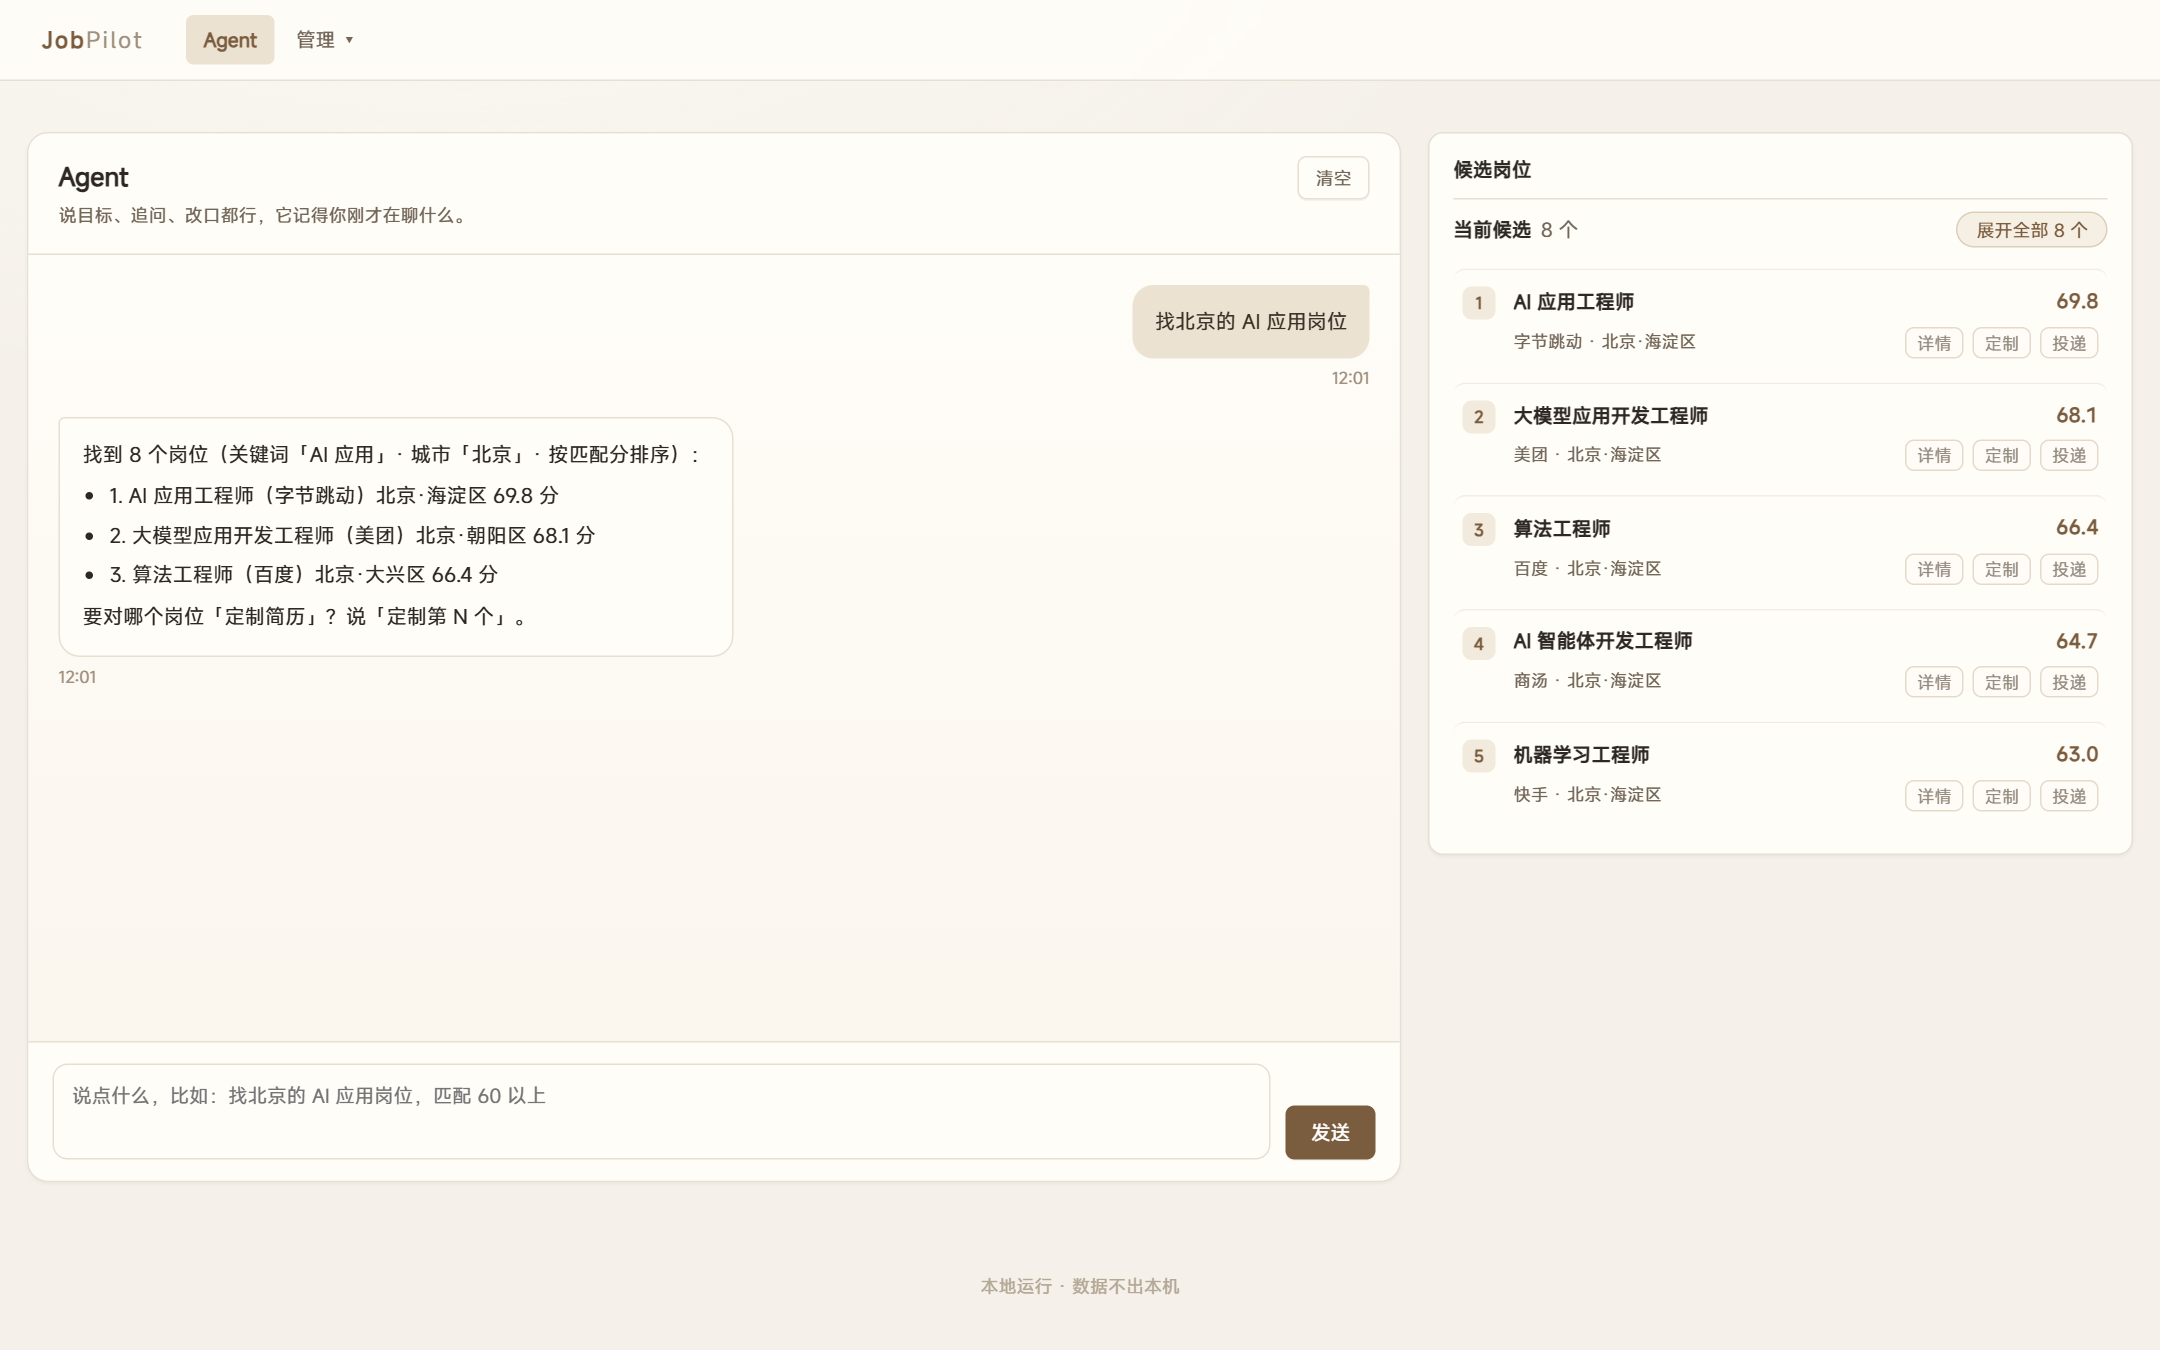
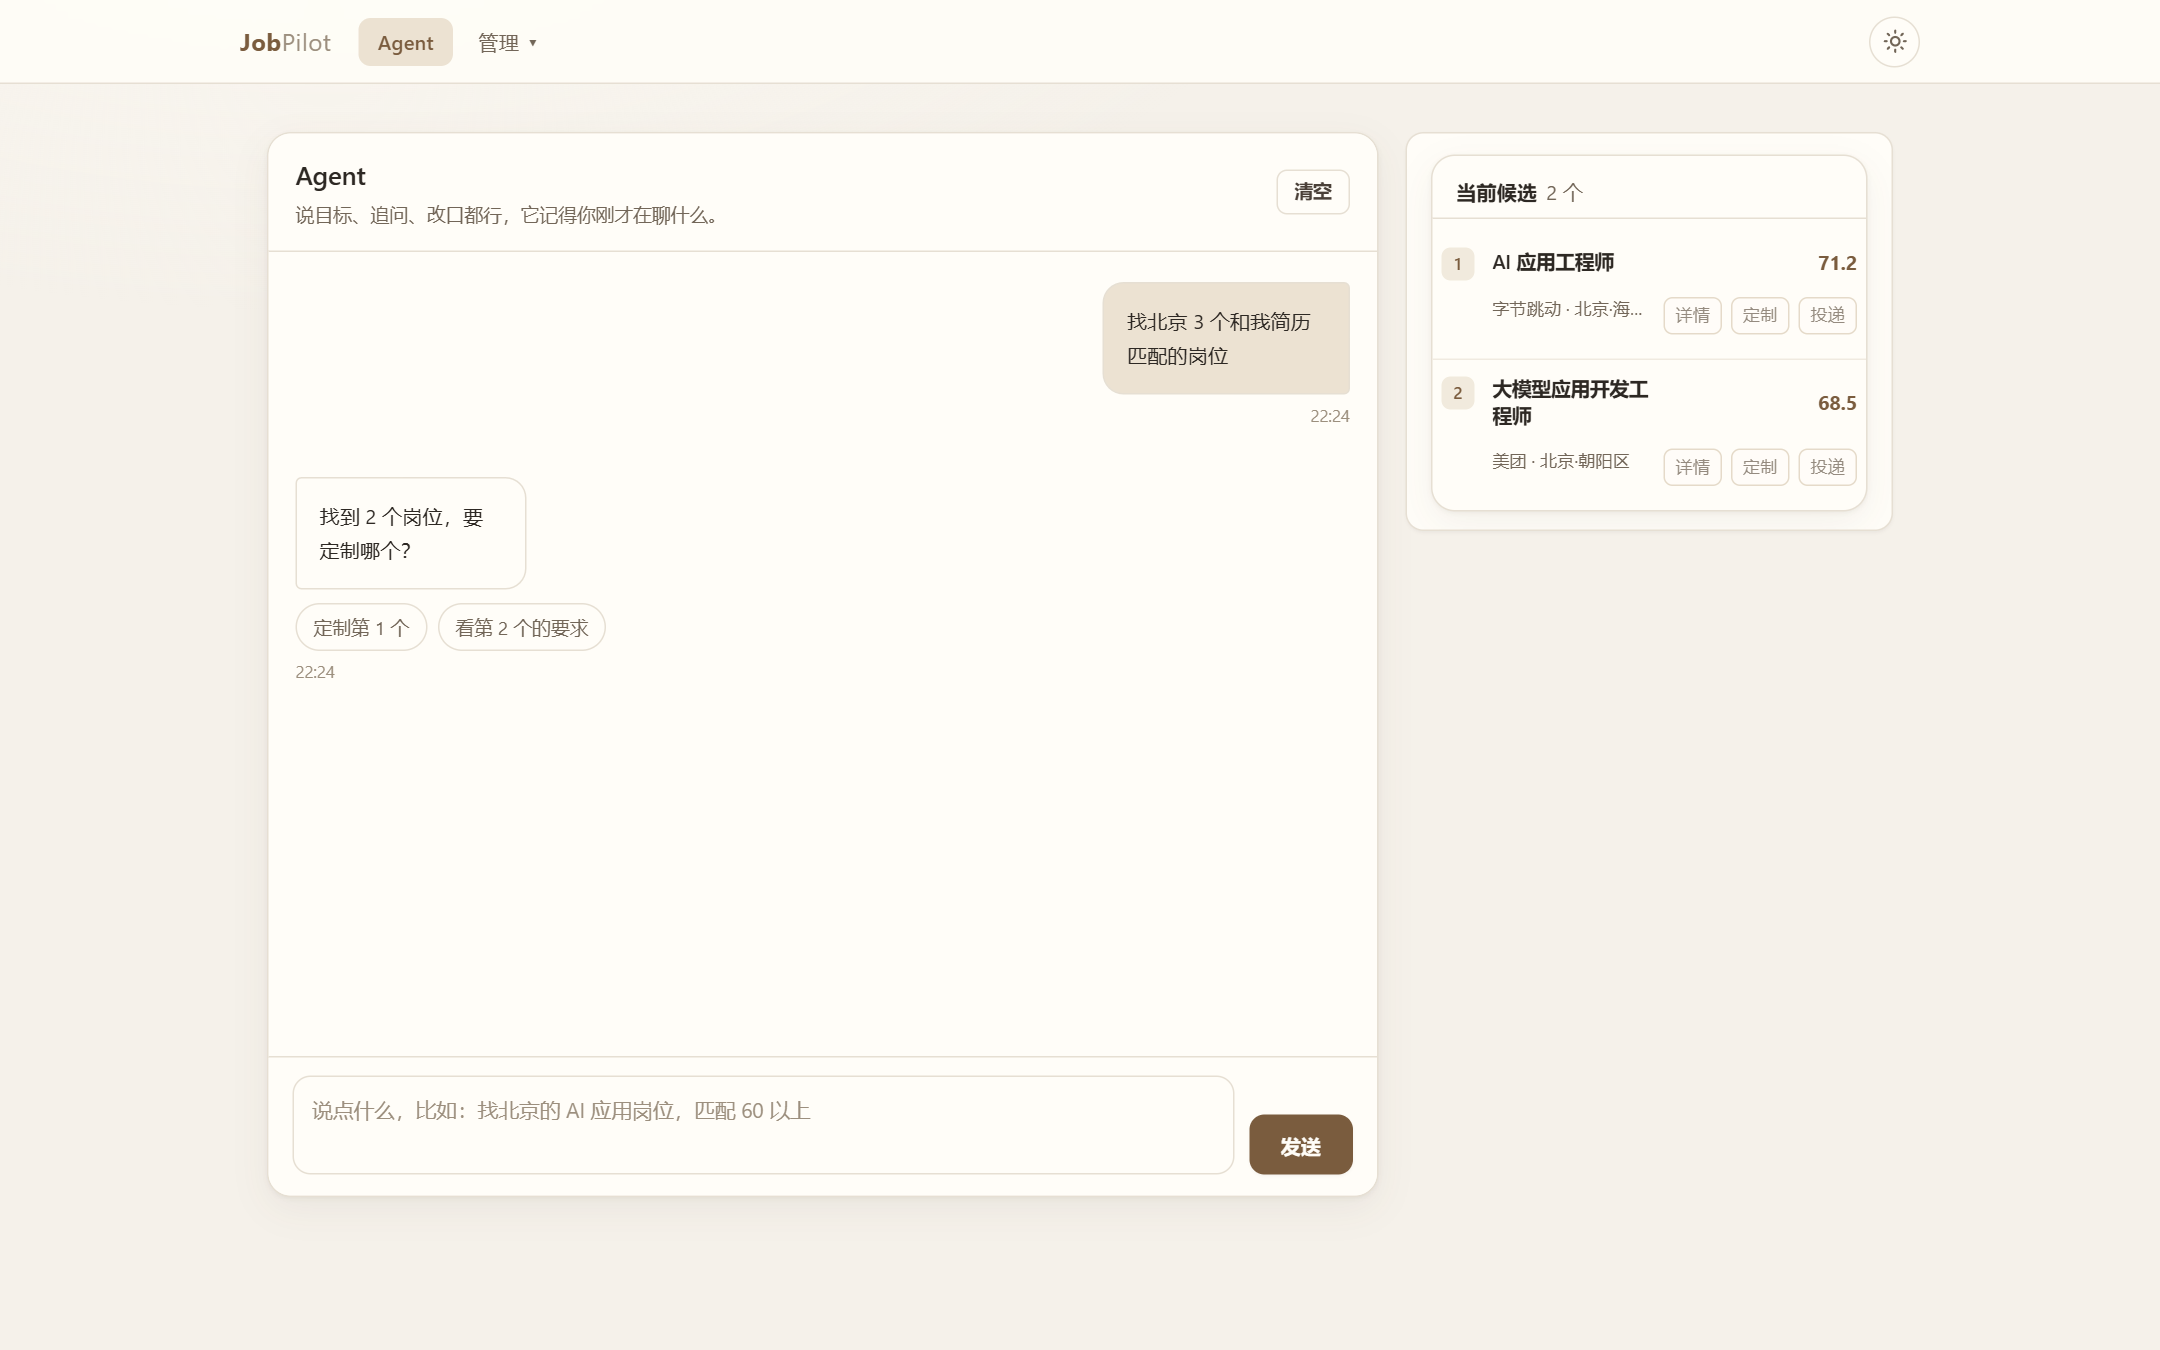
docs: UI 换代收尾（批次 3/3）
- README 截图按新 UI 重拍（对话 / 编辑 / 终审），另加一张深色模式
- changelog 补第 40 轮：Tailwind 设计系统、layer 丢失的坑、暗色方案

diff --git a/docs/changelog.md b/docs/changelog.md
@@ -748,3 +748,35 @@ ATS 版不含；奖项章节在两种版本都正常。
 - 再导入第 1 份 → 仍是 2 份，提示「之前导入过，已按最新解析结果刷新」
 
 **测试**：断言 262 → **266**；ruff / mypy 0 问题。
+
+
+---
+
+## 第 40 轮：前端换成 Tailwind 设计系统
+
+**动机**：前端是手写 756 行 `app.css` + 157 行 `theme.css`，颜色硬编码、组件各写各的，
+观感停在「能用」。用户要求用现成框架重做，并保留暖色、加暗色。
+
+**约束**
+- 离线：不引 CDN，产物入库
+- 零运行时依赖：构建只在我这边做一次，`pip install + python run.py` 不变
+- `templates/resume/document.html` 不动（PDF 渲染模板，mm 单位）
+
+**做法**
+- `static/tailwind.src.css`：设计令牌（`:root` / `.dark`）+ `@theme inline` 映射 +
+  `@layer components` 组件层；旧样式整体并入 `@layer components`，逐页替换
+- 主题：`html.dark` + `localStorage`，首帧前内联脚本应用，无闪白
+- 组件重做：顶栏（粘性毛玻璃 + 胶囊导航 + 切换按钮）、卡片、按钮、表单、表格、
+  标签、提示条、空状态、遮罩、对话气泡、候选面板、终审条目
+- 构建：`cd .tailwind && npm.cmd run build`（node_modules 已忽略，产物 85KB）
+
+**踩到的坑**
+- `@import "legacy.css" layer(components)` 被 Tailwind 内联后**丢了 layer**，
+  旧规则以 unlayered 身份压过新组件（候选面板圆角被清 0、输入框边框仍是蓝灰）。
+  改成把旧样式直接写进 `@layer components` 才修好。
+- 旧样式里 `.agent-side .cand-panel { border:none; background:transparent }`
+  优先级更高，必须用同等权重覆盖。
+
+**结果**
+- 暗色主题全覆盖；浅色沿用暖纸色，令牌化后不再有硬编码色
+- `docs/images` 三张截图按新 UI 重拍，另加一张深色

diff --git a/README.md b/README.md
@@ -11,6 +11,10 @@
 
 ![JobPilot 对话页](docs/images/agent-chat.png)
 
+<sub>深色模式（右上角切换，会记住选择）：</sub>
+
+![JobPilot 对话页（深色）](docs/images/agent-chat-dark.png)
+
 ## 它做什么
 
 | 环节 | 能力 |
